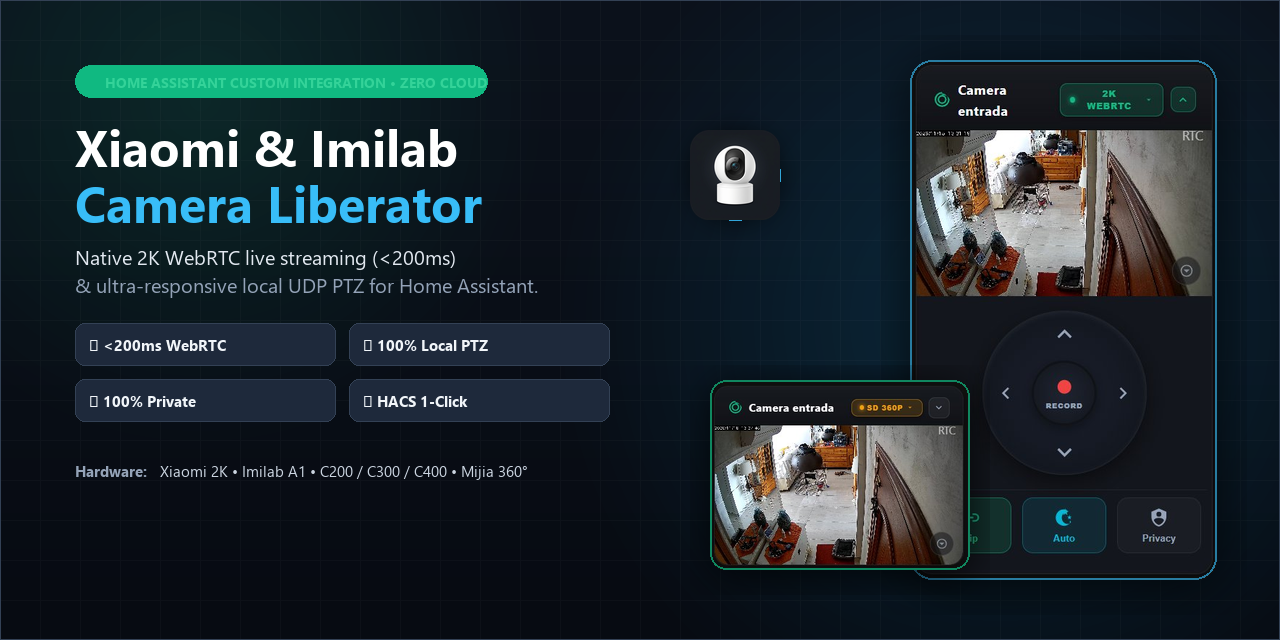
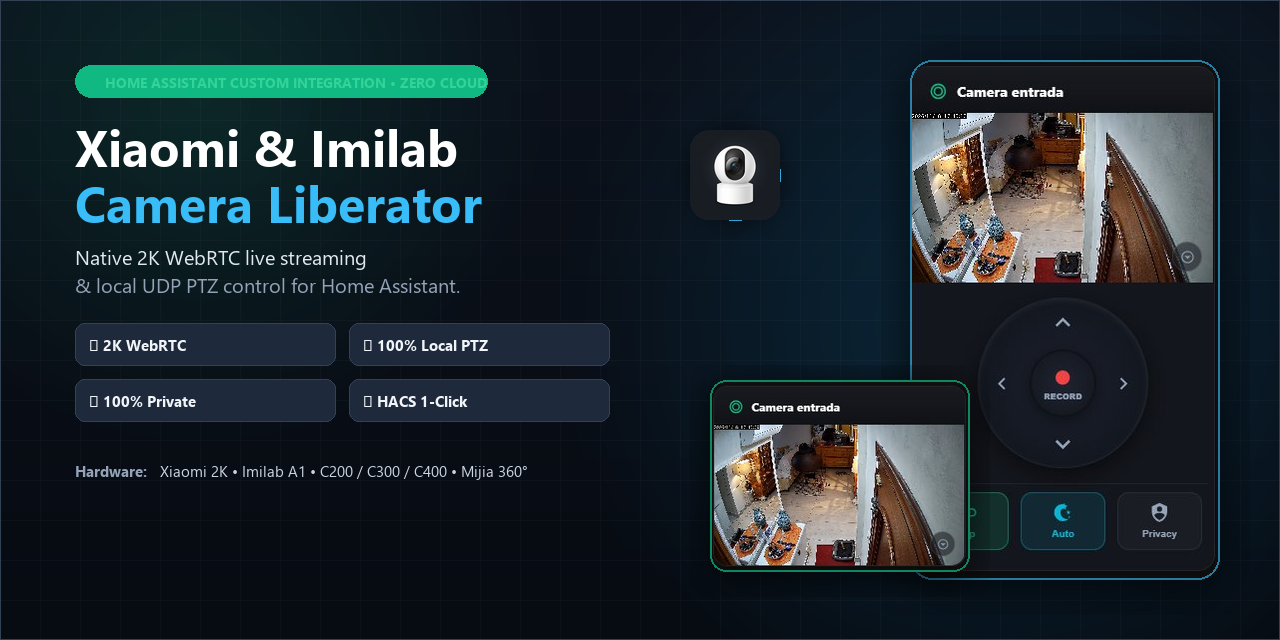
Remove low-latency, zero-lag, and sub-second claims across repo

diff --git a/custom_components/chuangmi_liberator/www/chuangmi-ptz-card.js b/custom_components/chuangmi_liberator/www/chuangmi-ptz-card.js
@@ -1,7 +1,7 @@
 /**
  * Chuangmi / Imilab PTZ Camera Lovelace Card for Home Assistant (v1.9.1)
  * Features:
- *  - Ultra-low-latency 2K/HD WebRTC streaming via go2rtc
+ *  - 2K WebRTC streaming via go2rtc
  *  - Tactile PTZ controller with directional buttons
  *  - Center intercom/microphone button for bidirectional audio
  *  - Clean bottom bar with 3 actions: Flip 180°, Night Mode, and Privacy Mode
@@ -1712,7 +1712,7 @@ try {
 } catch (e) {}
 
 console.info(
-  '%c CHUANGMI-PTZ-CARD %c v1.7.4 INSTANT WEBRTC & LOVELACE HEADER SCROLL FIX ',
+  '%c CHUANGMI-PTZ-CARD %c v1.9.1 WEBRTC & LOVELACE HEADER SCROLL FIX ',
   'color: white; background: #10b981; font-weight: bold; padding: 2px 6px; border-radius: 4px;',
   'color: #10b981; background: #18181b; font-weight: bold; padding: 2px 6px; border-radius: 4px;'
 );

diff --git a/tools/generate_social_preview.py b/tools/generate_social_preview.py
@@ -75,12 +75,12 @@ draw.text((start_x, title_y + 56), "Camera Liberator", font=f_title_bold, fill=(
 
 # 3. Subtitle / Pitch
 sub_y = title_y + 130
-draw.text((start_x, sub_y), "Native 2K WebRTC live streaming (<200ms)", font=f_sub, fill=(226, 232, 240, 240))
-draw.text((start_x, sub_y + 28), "& ultra-responsive local UDP PTZ for Home Assistant.", font=f_sub, fill=(148, 163, 184, 230))
+draw.text((start_x, sub_y), "Native 2K WebRTC live streaming", font=f_sub, fill=(226, 232, 240, 240))
+draw.text((start_x, sub_y + 28), "& local UDP PTZ control for Home Assistant.", font=f_sub, fill=(148, 163, 184, 230))
 
 # 4. Feature Badges (2x2 grid)
 badges = [
-    ("⚡ <200ms WebRTC", "Ultra-low latency streaming"),
+    ("⚡ 2K WebRTC", "Direct hardware streaming"),
     ("🎮 100% Local PTZ", "Zero cloud UDP control"),
     ("🔒 100% Private", "No subscriptions, firewall-safe"),
     ("📦 HACS 1-Click", "Pre-made Lovelace PTZ Card")

diff --git a/custom_components/chuangmi_liberator/camera.py b/custom_components/chuangmi_liberator/camera.py
@@ -243,7 +243,7 @@ class ChuangmiLiberatorCamera(Camera):
         return None
 
     async def stream_source(self) -> Optional[str]:
-        """Provide low-latency stream url registered in go2rtc."""
+        """Provide stream url registered in go2rtc."""
         stream_name = f"chuangmi_{self._did}"
         user_id = self._stored_user_id or "admin"
         stream_url = f"xiaomi://{user_id}:{self._country}@{self._ip}?did={self._did}&model={self._model}&subtype=0"

diff --git a/custom_components/chuangmi_liberator/xiaomi_client.py b/custom_components/chuangmi_liberator/xiaomi_client.py
@@ -178,7 +178,7 @@ class XiaomiClient:
 
         return None
 
-    # --- Local miIO direct commands (for instant zero-latency controls) ---
+    # --- Local miIO direct commands (for local network controls) ---
     _miio_sessions: Dict[str, Dict[str, Any]] = {}
 
     @classmethod

diff --git a/README.md b/README.md
@@ -19,12 +19,12 @@
 
 <p align="center">
   <strong>🔓 The Ultimate Liberation for Xiaomi, Chuangmi & Imilab Cameras in Home Assistant</strong><br>
-  <strong>Brings Full Local Control & Ultra-Low Latency 2K WebRTC to Long-Unsupported Hardware:</strong><br>
+  <strong>Brings Full Local Control & 2K WebRTC to Long-Unsupported Hardware:</strong><br>
   <strong>Xiaomi Smart Camera 2K / Imilab A1</strong> (<code>ipc019e</code> / <code>ipc019</code>) • <strong>Mijia 360° PTZ 1080P</strong> (<code>ipc009</code> / <code>xiaobai</code>) • <strong>Xiaomi C200 / C300 / C400 / C500 Pro</strong> (<code>026c02</code>, <code>046c04</code>, <code>055a01</code>, <code>069a01</code>) • <strong>Chuangmi IP v2–v6 / PTZ Pro</strong> (<code>ipc013</code>, <code>ipc020</code>–<code>022</code>) • <strong>Imilab C20 / C21 / C30</strong>
 </p>
 
 <p align="center">
-  <em>After years without native local support or RTSP firmware, this integration completely liberates a vast fleet of Xiaomi / Chuangmi / Imilab cameras with <strong>instant &lt;200ms 2K WebRTC streaming</strong>, <strong>in-card quick video recording</strong>, <strong>100% local UDP PTZ motor control</strong>, and a dedicated tactile Lovelace PTZ card — <strong>zero cloud subscriptions, zero hacking, zero cloud lag</strong>.</em>
+  <em>After years without native local support or RTSP firmware, this integration completely liberates a vast fleet of Xiaomi / Chuangmi / Imilab cameras with <strong>native 2K WebRTC streaming</strong>, <strong>in-card quick video recording</strong>, <strong>100% local UDP PTZ motor control</strong>, and a dedicated tactile Lovelace PTZ card — <strong>zero cloud subscriptions, zero hacking</strong>.</em>
 </p>
 
 ---
@@ -49,9 +49,9 @@ Click the badge above to open **Xiaomi & Imilab Camera Liberator (WebRTC & PTZ)*
 
 ## ⚡ Highlights & Key Features
 
-- **⚡ Zero-Lag WebRTC Streaming (&lt;200ms):** Eliminates the annoying 2–5 second cloud latency and buffering of traditional HLS/RTSP streams. Streams directly via hardware-accelerated `go2rtc` and WebSocket peer negotiation.
-- **🎥 Instant In-Card Video Recording:** Center record button (`RECORD` / `GRABAR`) records live video chunks directly from the browser with an active stopwatch timer (`● RECORDING 00:00`), automatically downloading the MP4/WebM video clip upon completion while triggering the camera's local 30s storage backup.
-- **⚡ Instant Native 2K WebRTC Streaming:** Direct hardware-accelerated H.265/H.264 streaming with zero transcoding overhead and sub-second startup.
+- **⚡ Direct WebRTC Streaming:** Eliminates cloud-dependent relays. Streams directly via hardware-accelerated `go2rtc` and WebSocket peer negotiation.
+- **🎥 In-Card Video Recording:** Center record button (`RECORD` / `GRABAR`) records live video chunks directly from the browser with an active stopwatch timer (`● RECORDING 00:00`), automatically downloading the MP4/WebM video clip upon completion while triggering the camera's local 30s storage backup.
+- **⚡ Native 2K WebRTC Streaming:** Direct hardware-accelerated H.265/H.264 streaming with zero transcoding overhead.
 - **🎮 Tactile Lovelace PTZ Card (`chuangmi-ptz-card`):**
   - Responsive circular directional D-pad (Up, Down, Left, Right) with hardware gear debouncing.
   - **Ceiling / Inversion Awareness:** Pressing Up moves the camera visually upward regardless of 0° or 180° inverted ceiling mounting.
@@ -126,8 +126,8 @@ title: Front Entrance (2K PTZ)
 ### Card Features:
 | Feature | Description |
 | :--- | :--- |
-| **WebRTC 2K / HD Live** | Instant frame playback without buffering or keyframe lag |
-| **Native 2K WebRTC** | Direct hardware streaming with zero transcoding overhead and sub-second startup |
+| **WebRTC 2K Live** | Direct frame playback via go2rtc |
+| **Native 2K WebRTC** | Direct hardware streaming with zero transcoding overhead |
 | **PTZ D-Pad** | Motor commands with hardware debouncing to prevent packet collisions |
 | **Instant Video Record** | Record live video clips with real-time timer directly from your dashboard |
 | **Flip 180°** | Toggle image orientation for ceiling or upside-down mounts |
@@ -197,7 +197,7 @@ This integration communicates via the native **Xiaomi MISS / CloudRTC** streamin
 | :--- | :--- | :---: | :---: | :---: | :---: | :---: |
 | `chuangmi.camera.ipc019e` | **Xiaomi Smart Camera 2K / Imilab A1 (CMSXJ19E)** | 2304x1296 (2K) | ✅ | ✅ | ✅ | **Verified Working** |
 
-> **Verification Details:** Confirmed with dual-camera live setup. Instant PTZ response, real-time WebRTC stream (&lt;200ms latency), instant video recording, night vision IR switching, and local sleep/privacy toggle all operating flawlessly.
+> **Verification Details:** Confirmed with dual-camera live setup. Local PTZ response, real-time WebRTC stream, in-card video recording, night vision IR switching, and local sleep/privacy toggle all operating reliably.
 
 ---
 
@@ -275,7 +275,7 @@ These models share the identical Chuangmi/Imilab firmware base, MISS streaming p
 +-------------------------------------------------------------+
 ```
 
-1. **Video Path:** WebRTC frames stream peer-to-peer directly between `go2rtc` and your browser/app for &lt;200ms latency. The card streams native ultra-crisp resolution directly without transcoding.
+1. **Video Path:** WebRTC frames stream directly between `go2rtc` and your browser/app. The card streams native ultra-crisp resolution directly without transcoding.
 2. **Control Path:** PTZ moves and switch commands are transmitted directly via UDP packets using miIO AES-CBC encryption without internet roundtrips.
 
 ---
